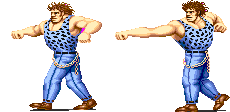
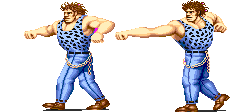
Added punching logic

Changed region(s): [[0.0304, 0.0, 0.5174, 0.9911]]

diff --git a/BeatEmUp/BeatEmUp/source/Enemy.cpp b/BeatEmUp/BeatEmUp/source/Enemy.cpp
@@ -86,6 +86,7 @@ Andore::Andore(SDL_Renderer* const renderer, Sprite* walkLeftSprite, Sprite* wal
 	, punchRight(punchRightSprite)
 	, current(NULL)
 	, state(ST_Patrolling)
+	, punchTimer(0)
 {
 	position.x = posX, position.y = posY, position.w = (float)walkLeft->Position().w;
 	position.h = (float)walkLeft->Position().h;
@@ -97,8 +98,11 @@ Andore::Andore(SDL_Renderer* const renderer, Sprite* walkLeftSprite, Sprite* wal
 	state = ST_Chasing;
 }
 
+
+
 const float MaxDistX = 50.0f;
 const float MaxDistY = 0.0f;
+
 
 void Andore::Update()
 {
@@ -122,7 +126,9 @@ void Andore::Update()
 			SetDirection(Right);
 			xVel = speed;
 		}
-		else
+
+		if(SDL_abs(distX) <= MaxDistX 
+			&& SDL_abs(distY) <= MaxDistY)
 		{
 			Stop();
 			Punch();
@@ -131,6 +137,12 @@ void Andore::Update()
 	else if(state == ST_Punching)
 	{
 		current = GetDirection() == Left? punchLeft: punchRight;
+
+		if(SDL_GetTicks() - punchTimer > 1000)
+		{
+			state = ST_Chasing;
+			punchTimer = 0;
+		}
 	}
 
 	//Handle BG scrolling
@@ -153,6 +165,7 @@ void Andore::Update()
 void Andore::Punch()
 {
 	state = ST_Punching;
+	punchTimer = SDL_GetTicks();
 }
 
 

diff --git a/BeatEmUp/BeatEmUp/source/Game.cpp b/BeatEmUp/BeatEmUp/source/Game.cpp
@@ -51,9 +51,9 @@ bool Game::Init()
 	andore = new Andore(renderer_, 
 		Sprite::FromFile("resources/andore_walkleft.png", renderer_, 84, 124, 10, 5),
 		Sprite::FromFile("resources/andore_walkright.png", renderer_, 88, 130, 10, 5), 
-		Sprite::FromFile("resources/andore_punchleft.png", renderer_, 115, 112, 10, 1),
-		Sprite::FromFile("resources/andore_punchright.png", renderer_, 115, 112, 10, 1), 
-		-800, 450);
+		Sprite::FromFile("resources/andore_punchleft.png", renderer_, 115, 112, 50, 1),
+		Sprite::FromFile("resources/andore_punchright.png", renderer_, 115, 112, 50, 1), 
+		600, 450);
 
 
 	player = new Player(renderer_);

diff --git a/BeatEmUp/BeatEmUp/include/Enemy.h b/BeatEmUp/BeatEmUp/include/Enemy.h
@@ -54,4 +54,5 @@ private:
 	Sprite* punchRight;
 	Sprite* punchLeft;
 	State state;
+	Uint32 punchTimer;
 };
